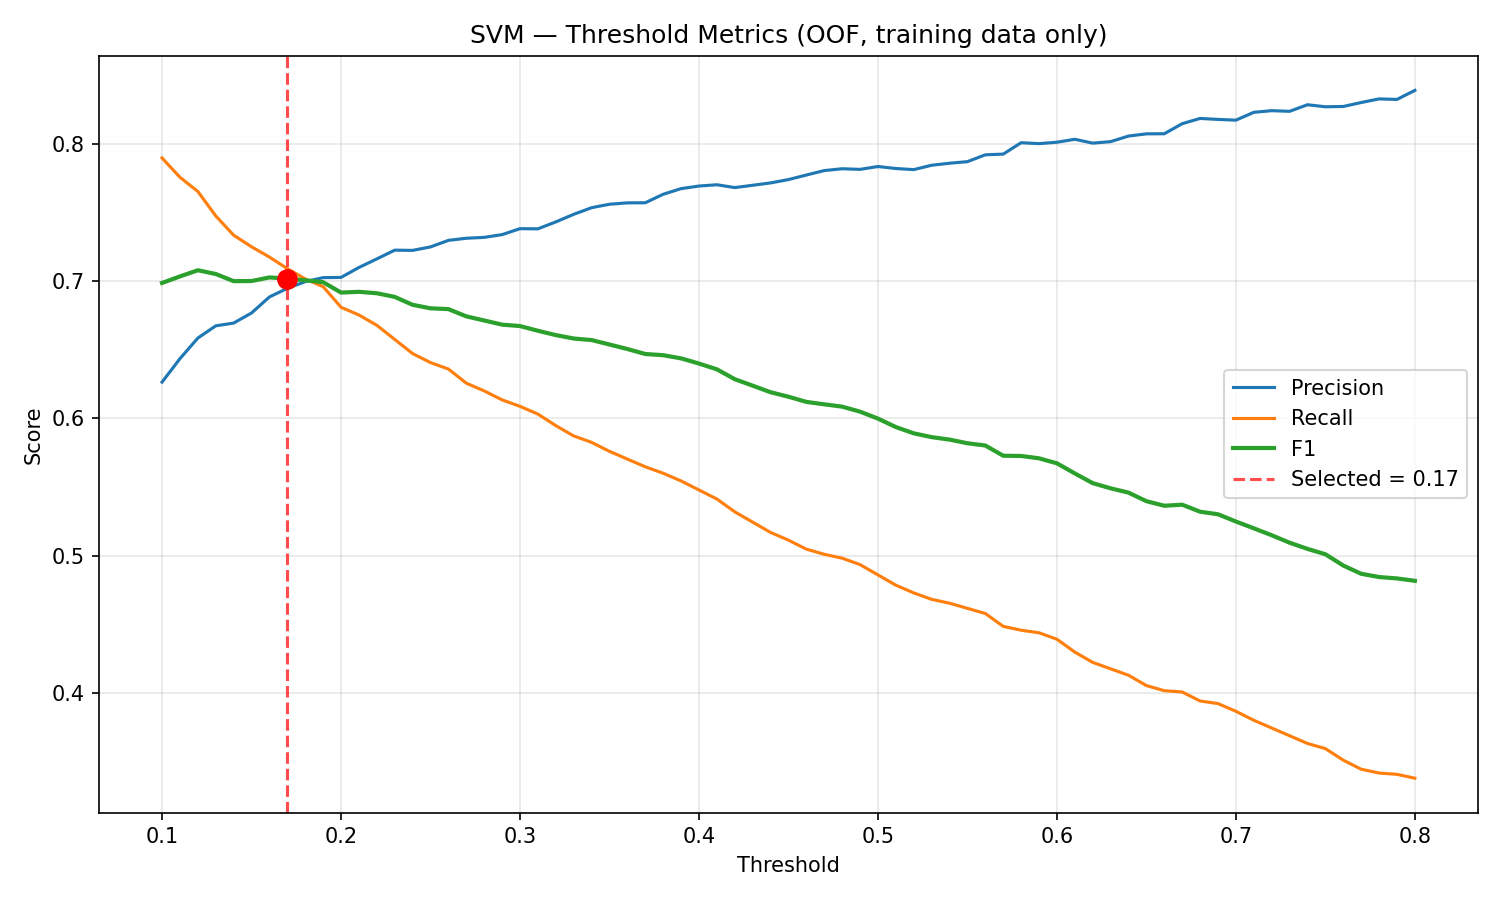
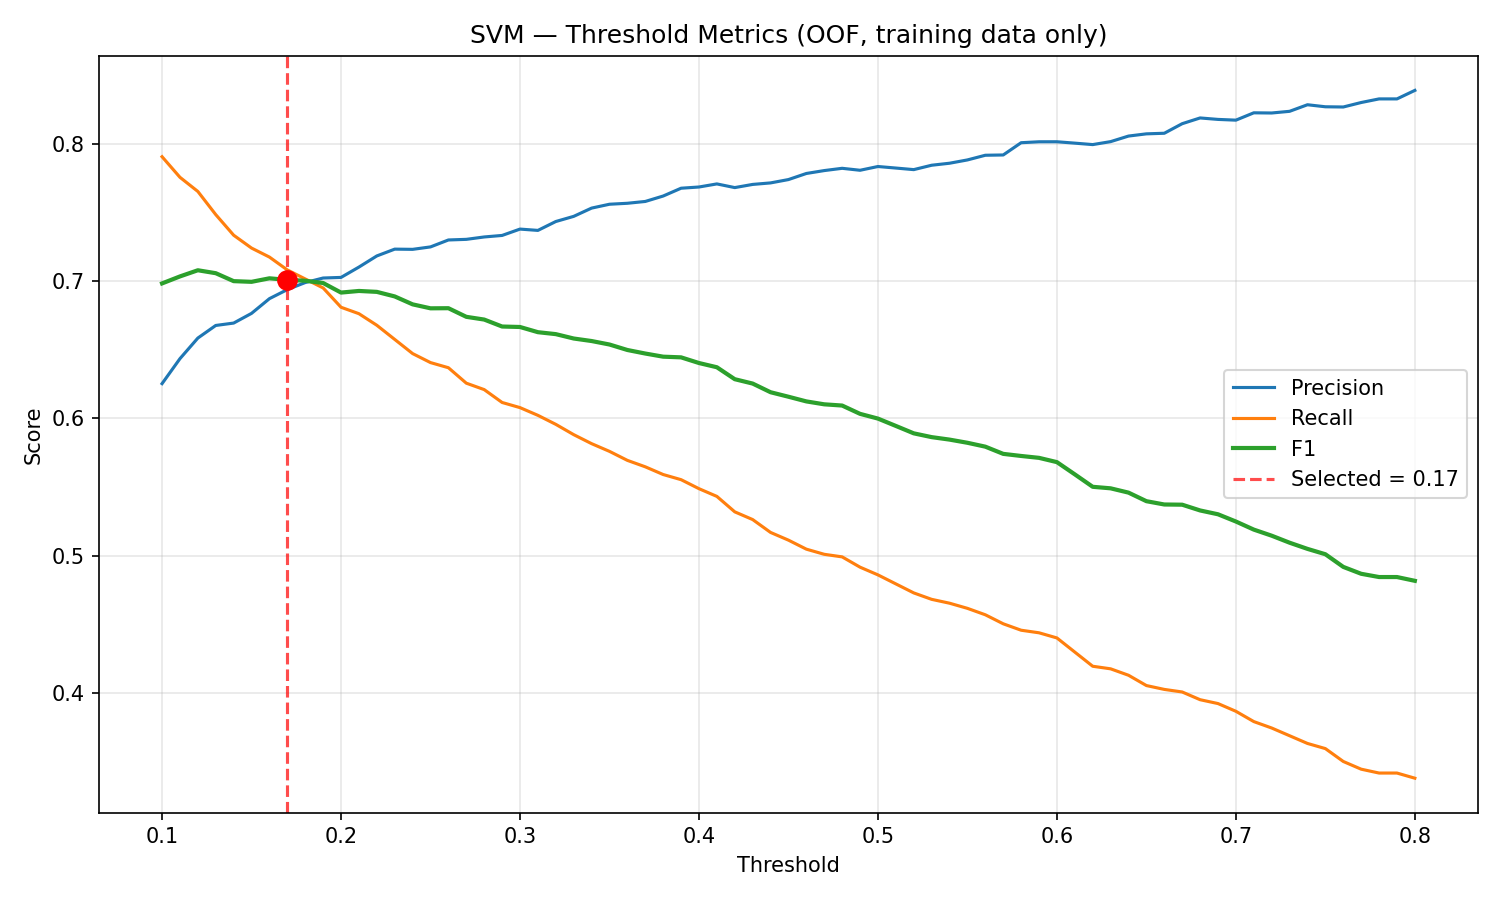
test: Relax tol Slightly to fix the problem

diff --git a/models/svm_model.py b/models/svm_model.py
@@ -25,9 +25,9 @@ CPU Optimisations (Intel Core Ultra 5 125H — Meteor Lake hybrid)
 * N_JOBS = 12 — saturates P-cores + half the E-cores; leaves LP-E-cores and
   some P-threads free for OS scheduling and memory bandwidth tasks.
 * OOF probability generation parallelised with cross_val_predict (loky backend, spawn-safe).
-* SVC max_iter capped at 10 000 — high enough for extreme C/gamma combos
+* SVC max_iter capped at 30 000 — high enough for extreme C/gamma combos
   sampled during RandomizedSearch to converge; still prevents truly pathological
-  cases from hanging on E-cores. tol=1e-3 relaxed to aid early stopping.
+  cases from hanging on E-cores. tol=3e-3 relaxed to aid early stopping.
 * The workload is limited to 12 parallel processes to reduce contention with the operating system and other applications.
 """
 
@@ -206,10 +206,10 @@ def _build_pipeline_with_smotenc(
                     random_state=random_state,
                 ),
             ),
-            # max_iter=10_000 + cache_size=512 MB: larger kernel cache reduces
+            # max_iter=30_000 + cache_size=1024 MB: larger kernel cache reduces
             # the number of SMO re-computations, so fewer iterations are needed.
-            # tol=1e-3: relaxed to aid early stopping on E-cores.
-            ("svm", SVC(random_state=random_state, max_iter=10_000, tol=1e-3, cache_size=512)),
+            # tol=3e-3: relaxed to aid early stopping on E-cores and high C_eff.
+            ("svm", SVC(random_state=random_state, max_iter=30_000, tol=3e-3, cache_size=1024)),
         ]
     )
 
@@ -224,10 +224,10 @@ def _build_pipeline_no_smote(random_state: int = 42) -> Pipeline:
     return Pipeline(
         steps=[
             ("preprocessor", build_preprocessor(scale_numerical=True)),
-            # max_iter=10_000 + cache_size=512 MB: larger kernel cache reduces
+            # max_iter=30_000 + cache_size=1024 MB: larger kernel cache reduces
             # the number of SMO re-computations, so fewer iterations are needed.
-            # tol=1e-3: relaxed to aid early stopping on E-cores.
-            ("svm", SVC(random_state=random_state, max_iter=10_000, tol=1e-3, cache_size=512)),
+            # tol=3e-3: relaxed to aid early stopping on E-cores and high C_eff.
+            ("svm", SVC(random_state=random_state, max_iter=30_000, tol=3e-3, cache_size=1024)),
         ]
     )
 
@@ -682,9 +682,9 @@ def train_svm(
         inner_svc = calibrated_model.calibrated_classifiers_[0].estimator.named_steps["svm"]
         if hasattr(inner_svc, "n_iter_"):
             n_iter_arr = np.asarray(inner_svc.n_iter_)
-            if np.any(n_iter_arr >= 10_000):
+            if np.any(n_iter_arr >= 30_000):
                 print(
-                    f"[WARNING] SVC may not have converged — hit max_iter=10,000 "
+                    f"[WARNING] SVC may not have converged — hit max_iter=30,000 "
                     f"(n_iter_={n_iter_arr.tolist()}).  Consider raising max_iter "
                     f"or relaxing C/tol for the selected hyperparameters."
                 )
